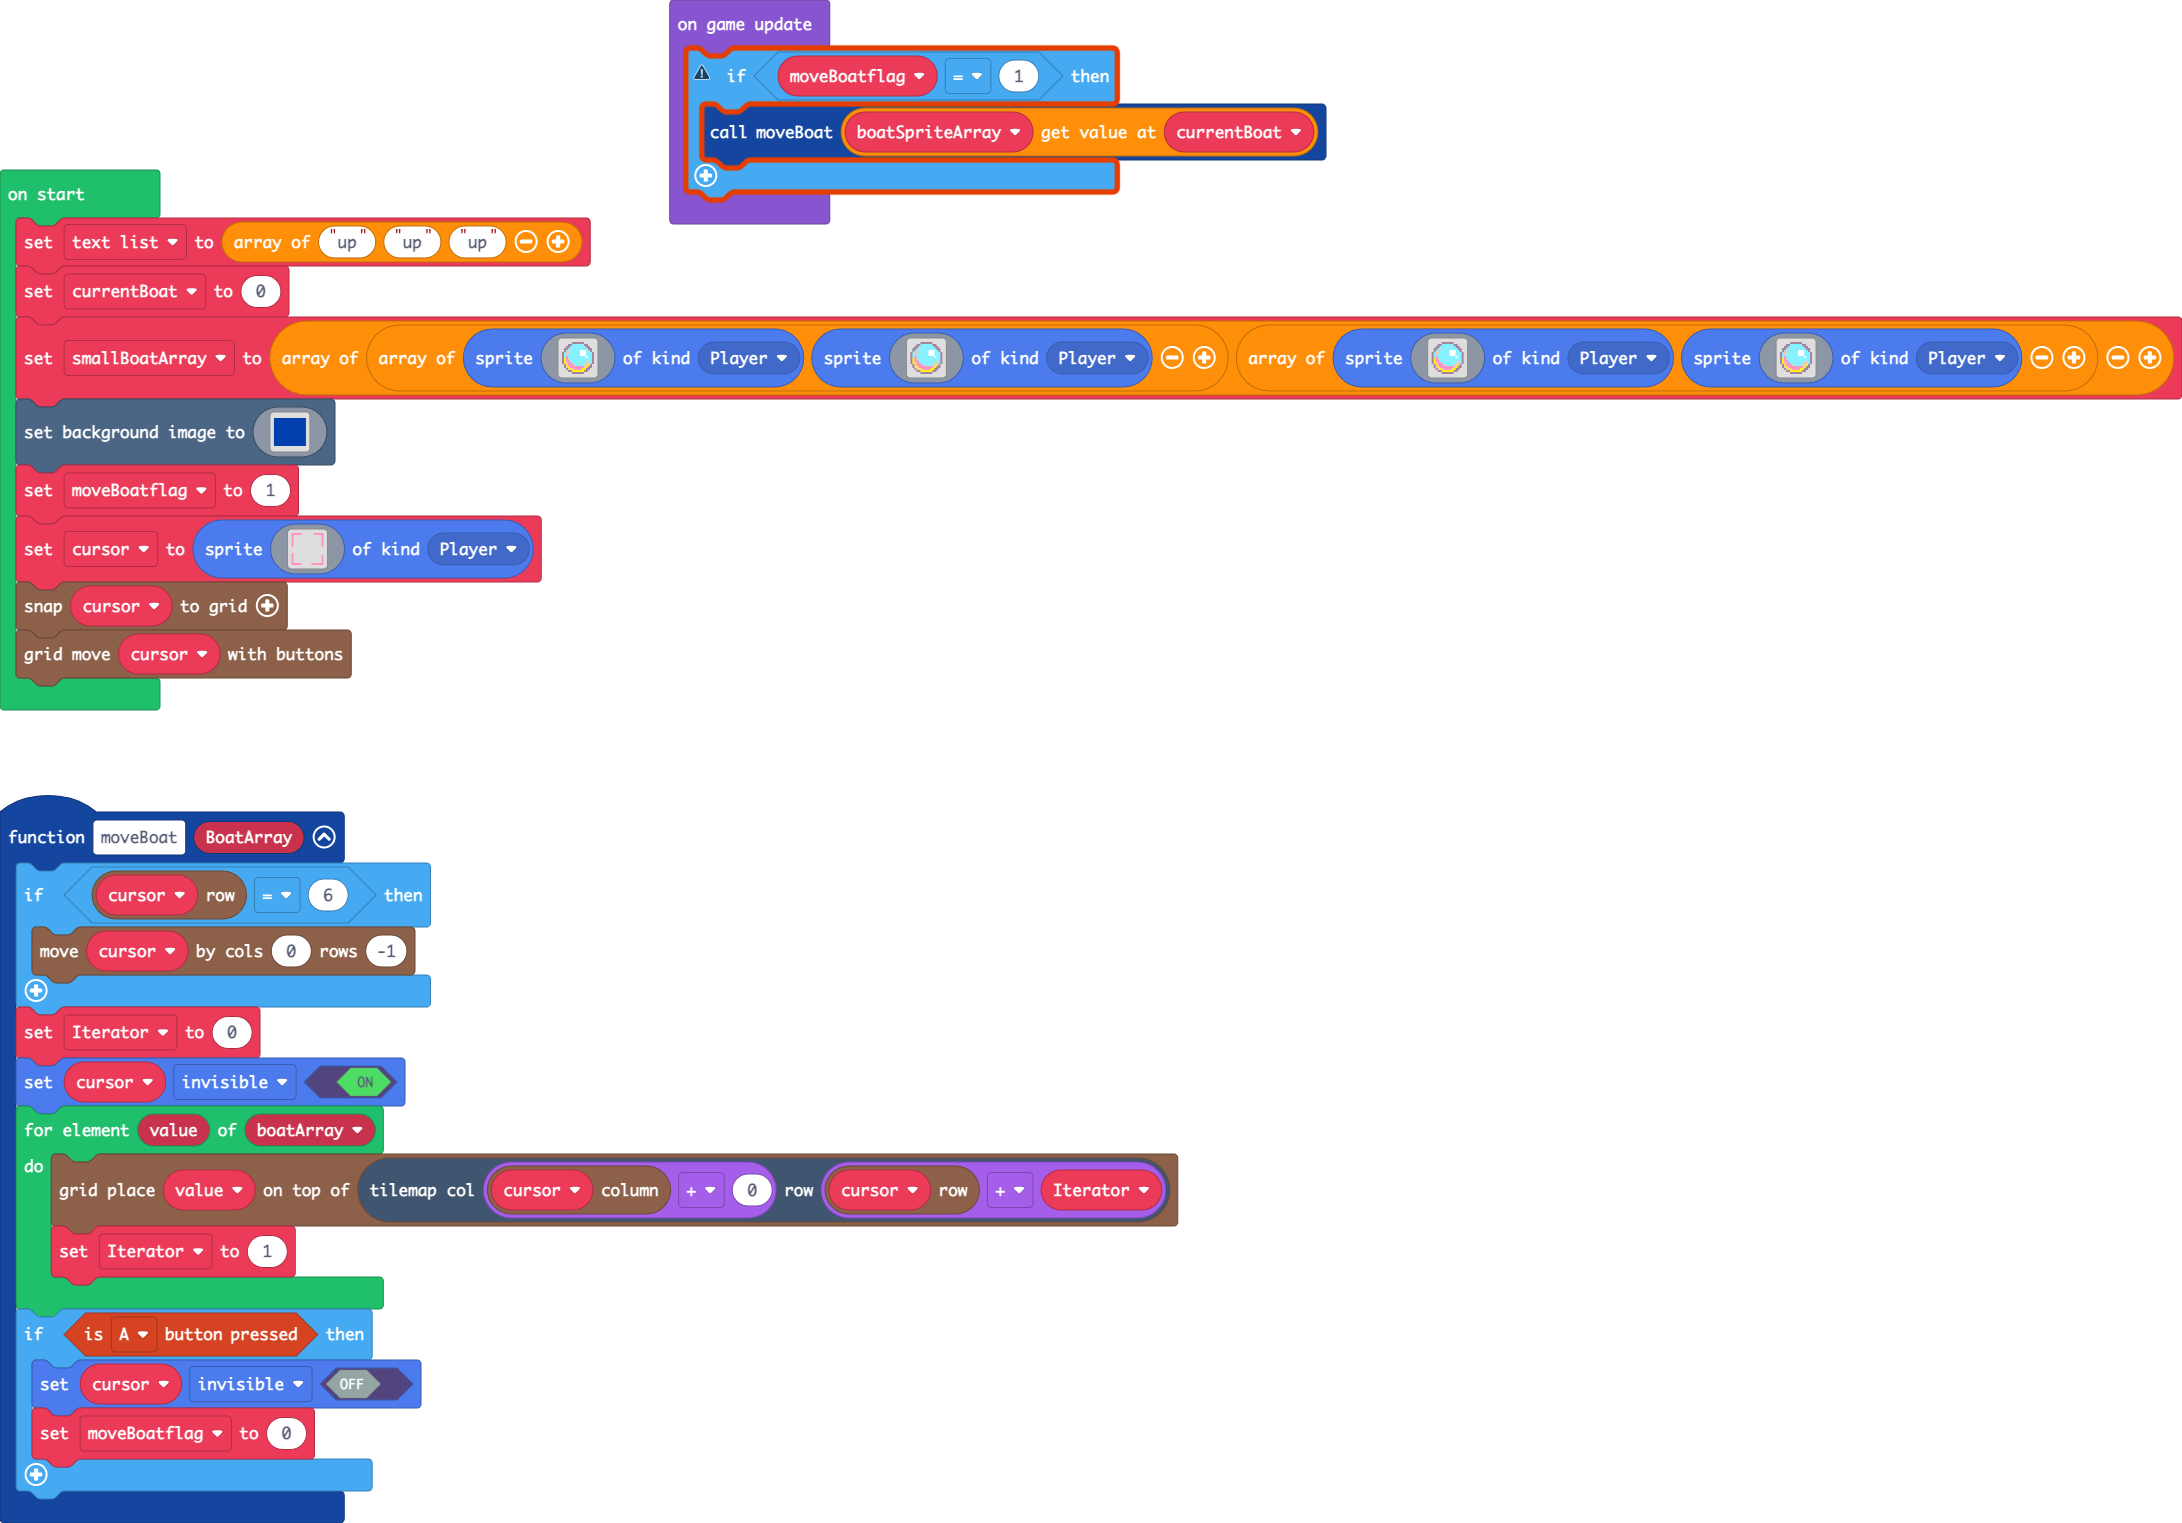
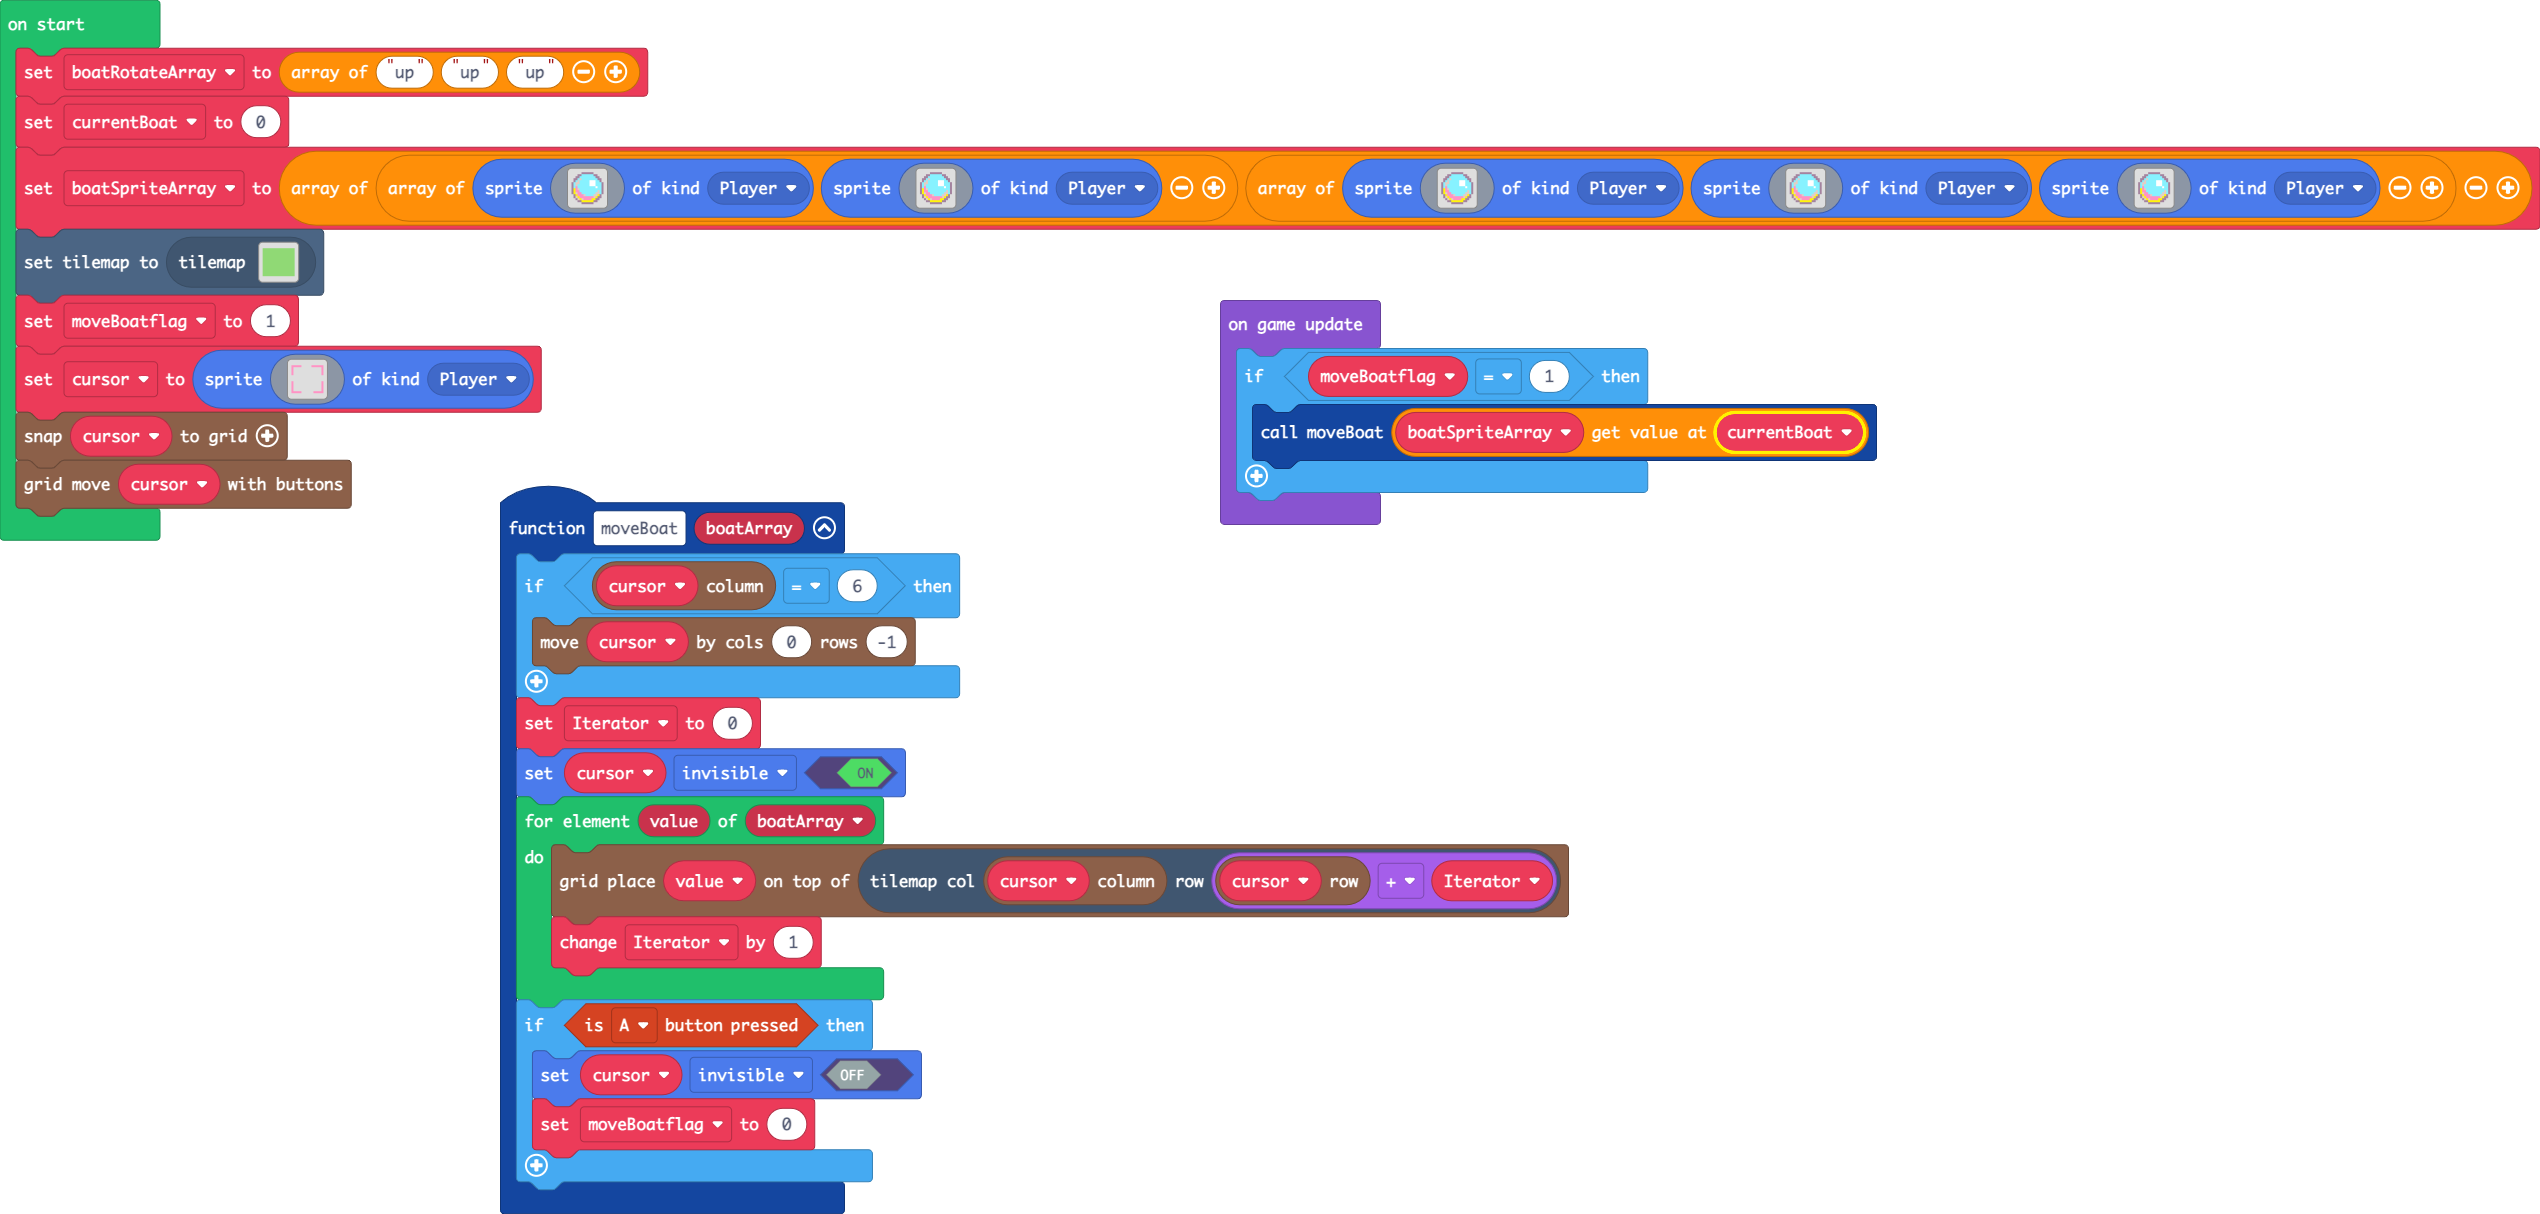
move

diff --git a/main.ts b/main.ts
@@ -1,13 +1,12 @@
-let boatArray: Sprite[] = []
-function moveBoat (BoatArray: any[]) {
-    if (grid.spriteRow(cursor) == 6) {
+function moveBoat (boatArray: Sprite[]) {
+    if (grid.spriteCol(cursor) == 6) {
         grid.move(cursor, 0, -1)
     }
     Iterator = 0
     cursor.setFlag(SpriteFlag.Invisible, true)
     for (let value of boatArray) {
-        grid.place(value, tiles.getTileLocation(grid.spriteCol(cursor) + 0, grid.spriteRow(cursor) + Iterator))
-        Iterator = 1
+        grid.place(value, tiles.getTileLocation(grid.spriteCol(cursor), grid.spriteRow(cursor) + Iterator))
+        Iterator += 1
     }
     if (controller.A.isPressed()) {
         cursor.setFlag(SpriteFlag.Invisible, false)
@@ -17,9 +16,9 @@ function moveBoat (BoatArray: any[]) {
 let Iterator = 0
 let cursor: Sprite = null
 let moveBoatflag = 0
-let text_list = ["up", "up", "up"]
+let boatRotateArray = ["up", "up", "up"]
 let currentBoat = 0
-let smallBoatArray = [[sprites.create(img`
+let boatSpriteArray = [[sprites.create(img`
     . . . . . b b b b b b . . . . . 
     . . . b b 9 9 9 9 9 9 b b . . . 
     . . b b 9 9 9 9 9 9 9 9 b b . . 
@@ -87,47 +86,46 @@ let smallBoatArray = [[sprites.create(img`
     . . b d 5 d 3 3 3 3 5 5 b b . . 
     . . . b b 5 5 5 5 5 5 b b . . . 
     . . . . . b b b b b b . . . . . 
+    `, SpriteKind.Player), sprites.create(img`
+    . . . . . b b b b b b . . . . . 
+    . . . b b 9 9 9 9 9 9 b b . . . 
+    . . b b 9 9 9 9 9 9 9 9 b b . . 
+    . b b 9 d 9 9 9 9 9 9 9 9 b b . 
+    . b 9 d 9 9 9 9 9 1 1 1 9 9 b . 
+    b 9 d d 9 9 9 9 9 1 1 1 9 9 9 b 
+    b 9 d 9 9 9 9 9 9 1 1 1 9 9 9 b 
+    b 9 3 9 9 9 9 9 9 9 9 9 1 9 9 b 
+    b 5 3 d 9 9 9 9 9 9 9 9 9 9 9 b 
+    b 5 3 3 9 9 9 9 9 9 9 9 9 d 9 b 
+    b 5 d 3 3 9 9 9 9 9 9 9 d d 9 b 
+    . b 5 3 3 3 d 9 9 9 9 d d 5 b . 
+    . b d 5 3 3 3 3 3 3 3 d 5 b b . 
+    . . b d 5 d 3 3 3 3 5 5 b b . . 
+    . . . b b 5 5 5 5 5 5 b b . . . 
+    . . . . . b b b b b b . . . . . 
     `, SpriteKind.Player)]]
-scene.setBackgroundImage(img`
-    8 8 8 8 8 8 8 8 8 8 8 8 8 8 8 8 
-    8 8 8 8 8 8 8 8 8 8 8 8 8 8 8 8 
-    8 8 8 8 8 8 8 8 8 8 8 8 8 8 8 8 
-    8 8 8 8 8 8 8 8 8 8 8 8 8 8 8 8 
-    8 8 8 8 8 8 8 8 8 8 8 8 8 8 8 8 
-    8 8 8 8 8 8 8 8 8 8 8 8 8 8 8 8 
-    8 8 8 8 8 8 8 8 8 8 8 8 8 8 8 8 
-    8 8 8 8 8 8 8 8 8 8 8 8 8 8 8 8 
-    8 8 8 8 8 8 8 8 8 8 8 8 8 8 8 8 
-    8 8 8 8 8 8 8 8 8 8 8 8 8 8 8 8 
-    8 8 8 8 8 8 8 8 8 8 8 8 8 8 8 8 
-    8 8 8 8 8 8 8 8 8 8 8 8 8 8 8 8 
-    8 8 8 8 8 8 8 8 8 8 8 8 8 8 8 8 
-    8 8 8 8 8 8 8 8 8 8 8 8 8 8 8 8 
-    `)
+tiles.setCurrentTilemap(tilemap`level2`)
 moveBoatflag = 1
 cursor = sprites.create(img`
-    3 3 3 3 3 . . . . . . 3 3 3 3 3 
-    3 . . . . . . . . . . . . . . 3 
-    3 . . . . . . . . . . . . . . 3 
-    3 . . . . . . . . . . . . . . 3 
-    3 . . . . . . . . . . . . . . 3 
-    3 . . . . . . . . . . . . . . 3 
-    3 . . . . . . . . . . . . . . 3 
-    . . . . . . . . . . . . . . . . 
-    . . . . . . . . . . . . . . . . 
-    . . . . . . . . . . . . . . . . 
-    3 . . . . . . . . . . . . . . . 
-    3 . . . . . . . . . . . . . . 3 
-    3 . . . . . . . . . . . . . . 3 
-    3 . . . . . . . . . . . . . . 3 
-    3 . . . . . . . . . . . . . . 3 
     3 3 3 3 3 . . . . . 3 3 3 3 3 3 
+    3 . . . . . . . . . . . . . . 3 
+    3 . . . . . . . . . . . . . . 3 
+    3 . . . . . . . . . . . . . . 3 
+    3 . . . . . . . . . . . . . . 3 
+    . . . . . . . . . . . . . . . . 
+    . . . . . . . . . . . . . . . . 
+    . . . . . . . . . . . . . . . . 
+    3 . . . . . . . . . . . . . . 3 
+    3 . . . . . . . . . . . . . . 3 
+    3 . . . . . . . . . . . . . . 3 
+    3 . . . . . . . . . . . . . . 3 
+    3 . . . . . . . . . . . . . . 3 
+    3 3 3 3 3 . . . . . . 3 3 3 3 3 
     `, SpriteKind.Player)
 grid.snap(cursor)
 grid.moveWithButtons(cursor)
 game.onUpdate(function () {
     if (moveBoatflag == 1) {
-        let boatSpriteArray: Array[] = []
         moveBoat(boatSpriteArray[currentBoat])
     }
 })

diff --git a/tilemap.g.ts b/tilemap.g.ts
@@ -20,6 +20,23 @@ namespace myTiles {
 . . . . . . . . . . . . . . . . 
 . . . . . . . . . . . . . . . . 
 `, [myTiles.transparency16], TileScale.Sixteen);
+            case "level2":
[1 lines of base64/hex data omitted]
+. . . . . . . . . . . . . . . . 
+. . . . . . . . . . . . . . . . 
+. . . . . . . . . . . . . . . . 
+. . . . . . . . . . . . . . . . 
+. . . . . . . . . . . . . . . . 
+. . . . . . . . . . . . . . . . 
+. . . . . . . . . . . . . . . . 
+. . . . . . . . . . . . . . . . 
+. . . . . . . . . . . . . . . . 
+. . . . . . . . . . . . . . . . 
+. . . . . . . . . . . . . . . . 
+. . . . . . . . . . . . . . . . 
+. . . . . . . . . . . . . . . . 
+. . . . . . . . . . . . . . . . 
+`, [myTiles.transparency16,sprites.castle.tileGrass2], TileScale.Sixteen);
         }
         return null;
     })
